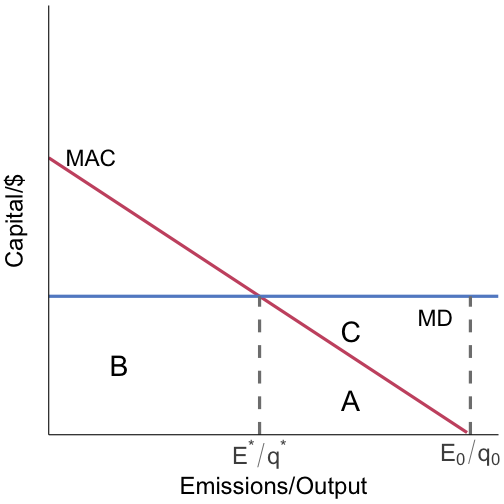
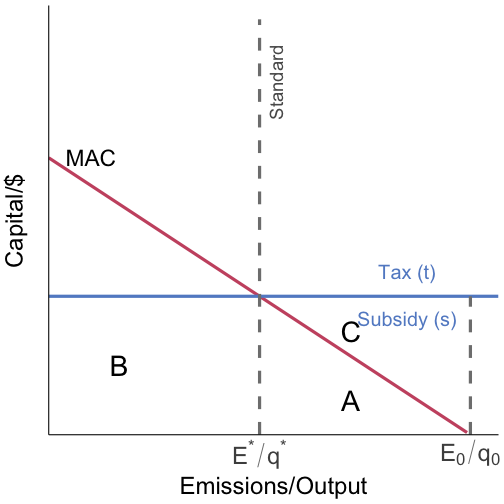
Clarify one-shot bargaining in Coase slides

diff --git a/slides/03-slides-coase.html b/slides/03-slides-coase.html
@@ -541,21 +541,24 @@ Noise `\(N\)` imposes cost `\(C(N)\)` on the doctor, benefits `\(B(N)\)` to the 
 
 --
 
-The confectioner could propose a contract where the doctor accepts some noise `\(N\)`, in exchange for a payment `\(\theta\)`
+Status quo is no contract: no additional noise and no transfer payment
+
+--
+
+This is a one-shot game: the confectioner gets one take-it-or-leave-it offer where the doctor accepts some noise `\(N\)` in exchange for payment `\(\theta\)`
 
 ---
 
 # Coase Caveats: Transactions costs
 
-The confectioner could propose a contract `\((N,\theta)\)` consisting of noise level `\(N\)` and transfer payment `\(\theta\)`
+Timing:
+1. Confectioner pays transaction/setup cost `\(tr\)` to propose one contract `\((N,\theta)\)`
+2. Doctor accepts or rejects once
+3. If rejected, they stay at the status quo (no additional noise, no transfer)
 
 --
 
-The doctor can then accept or refuse the contract `\((N,\theta)\)`
-
---
-
-Negotiating is .hi[costly] and has its own transactions cost `\(tr\)`
+There is no renegotiation after the accept/reject decision
 
 ---
 
@@ -591,7 +594,19 @@ Why?
 
 --
 
-It's the least amount required for the doctor to accept
+In a one-shot take-it-or-leave-it offer, the proposer sets the responder at reservation utility
+
+--
+
+So `\(\theta = C(N) = MC \times N\)` is the least amount required for the doctor to accept
+
+--
+
+If bargaining were unlimited, for a given `\(N\)` the feasible theta range is `\(\theta \in [MC \times N, B(N)]\)`
+
+--
+
+The realized payment in that interval depends on bargaining power and bargaining protocol
 
 ---
 
@@ -675,11 +690,11 @@ If the confectioner has the rights to noise, we just flip the script
 
 --
 
-The doctor proposes a contract `\((N, \theta)\)` where the confectioner reduces noise from `\(N_0\)` in exchange for a transfer payment
+The doctor makes a one-shot take-it-or-leave-it contract offer `\((N, \theta)\)` where the confectioner reduces noise from `\(N_0\)` in exchange for a transfer payment
 
 --
 
-The confectioner accepts or rejects the contract
+The confectioner accepts or rejects once; if rejected, they stay at `\(N_0\)` with no transfer
 
 When does the confectioner accept the contract?
 
@@ -689,7 +704,15 @@ The confectioner accepts if `\(\theta \geq B(N_0) - B(N)\)` (payment &gt; loss o
 
 --
 
-The doctor will then offer the minimum required: `\(\theta = B(N_0) - B(N)\)`
+Under one-shot take-it-or-leave-it bargaining, the doctor offers the minimum required: `\(\theta = B(N_0) - B(N)\)`
+
+--
+
+With unlimited bargaining, for given `\(N\)` the feasible theta range is `\(\theta \in [B(N_0)-B(N), MC \times (N_0-N)]\)`
+
+--
+
+Again, the realized payment in that interval depends on bargaining power and bargaining protocol
 
 ---
 
